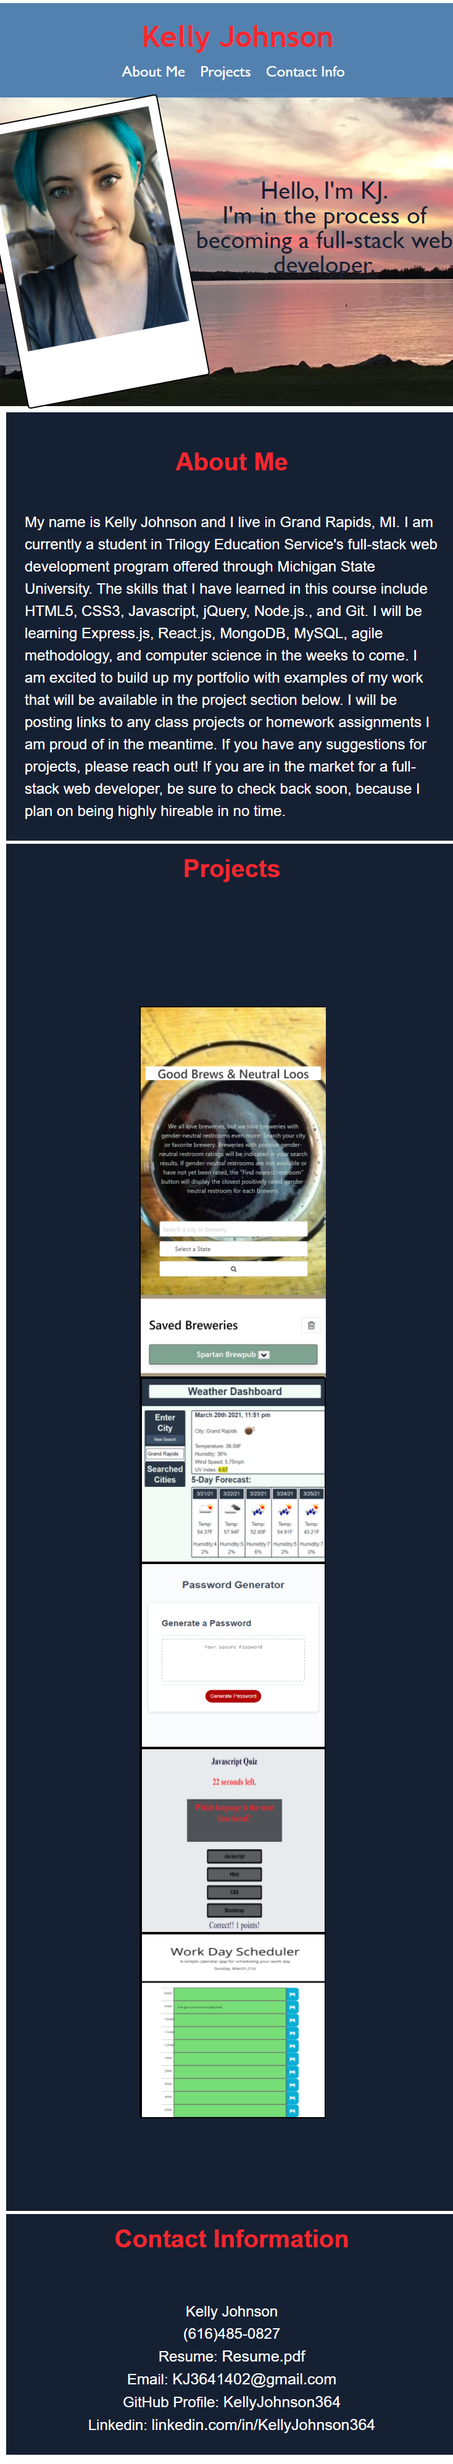
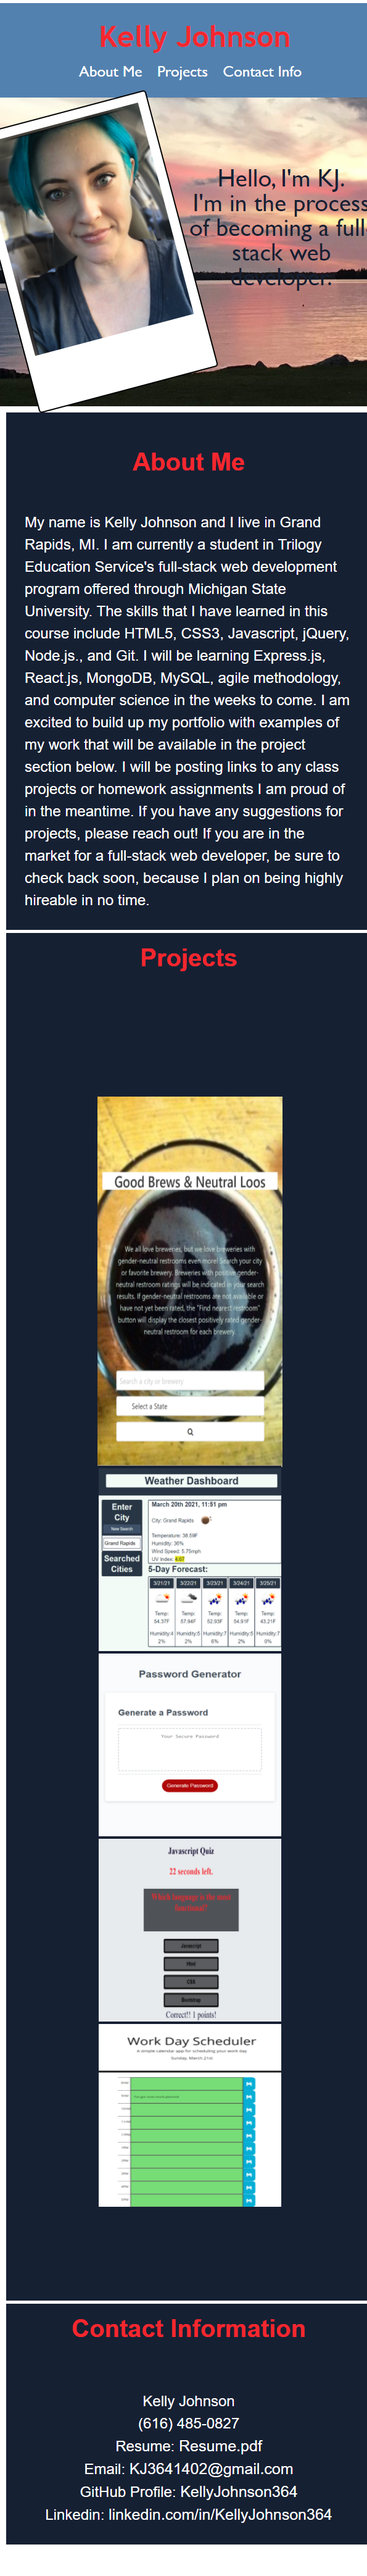
update shots

diff --git a/css/style.css b/css/style.css
@@ -268,9 +268,9 @@ h2 {
         padding: 30px auto;
     }
   
-/* Changes for screen size 768px or smaller */
+/* Changes for screen size 600px or smaller */
 
-  @media screen and (max-width: 768px) {
+  @media screen and (max-width: 600px) {
     h1 {
     text-align: center;    
     }  
